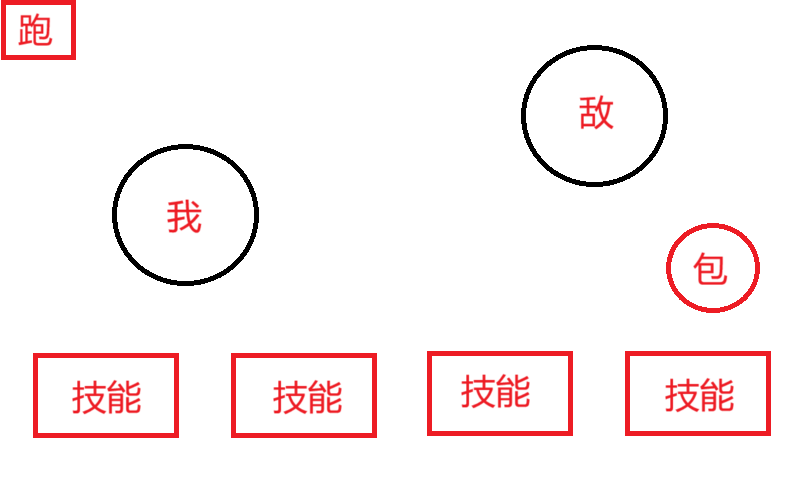
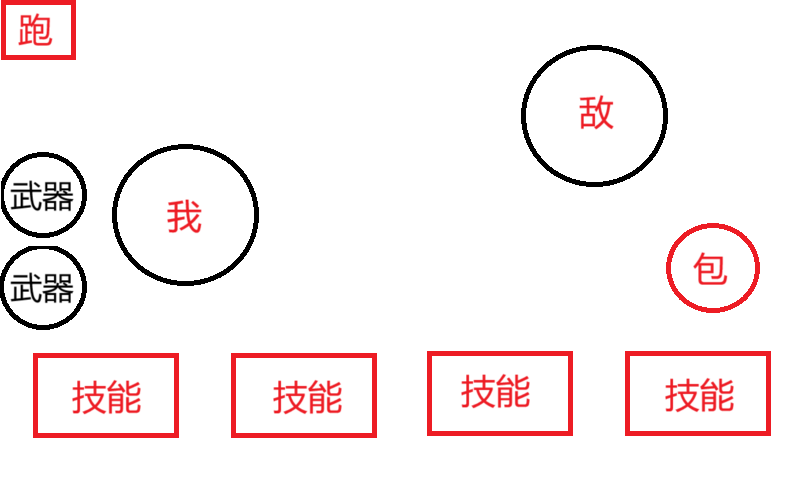
精灵类添加装备属性

Changed region(s): [[0.0, 0.3125, 0.125, 0.6875]]

diff --git a/myProject/myProject.cpp b/myProject/myProject.cpp
@@ -7,7 +7,6 @@ using namespace std;
 struct resource res;
 int main()
 {
-	
 	initgraph(800, 480, EX_SHOWCONSOLE| EX_NOCLOSE| EX_NOMINIMIZE| EX_DBLCLKS);
 	loadingBK(&res);
 again:
@@ -63,7 +62,7 @@ again:
 						}
 						break;
 					}
-					cout << "鼠标左键按下2pos(" << msg.x << "," << msg.y << ")" << endl;
+					//cout << "角色选择 pos(" << msg.x << "," << msg.y << ")" << endl;
 				}
 			}
 			else if (inArea(msg.x, msg.y, 330, 190, 115, 25))
@@ -75,7 +74,7 @@ again:
 				cout << "退出程序" << endl;
 				exit(0);
 			}
-			cout << "鼠标左键按下1pos(" << msg.x << "," << msg.y << ")" << endl;
+			//cout << "开始菜单 pos(" << msg.x << "," << msg.y << ")" << endl;
 			break;
 		default:
 			break;

diff --git a/src/Eva.hpp b/src/Eva.hpp
@@ -2,8 +2,9 @@
 #ifndef _EVA_H_
 #define _EVA_H_
 #include "../inc/pet.h"
+#include "../inc/Equipment.h"
 
-class Eva :public Pokemon
+class Eva :public Pokemon,public Equipment 
 {
 public:
 	Eva()
@@ -19,6 +20,8 @@ public:
 		this->_curExpValue = 0;
 		this->_grade = 1;
 		this->_speed = 9;
+		this->_isAttack = 0;
+		this->_isDefensive = 0;
 	}
 	void upGrade();
 	template <class T1>

diff --git a/src/Ray.hpp b/src/Ray.hpp
@@ -19,6 +19,8 @@ public:
 		this->_curExpValue = 0;
 		this->_grade = 100;
 		this->_speed = 99;
+		this->_isAttack = 0;
+		this->_isDefensive = 0;
 	}
 	void upGrade();
 	template <class T1>
